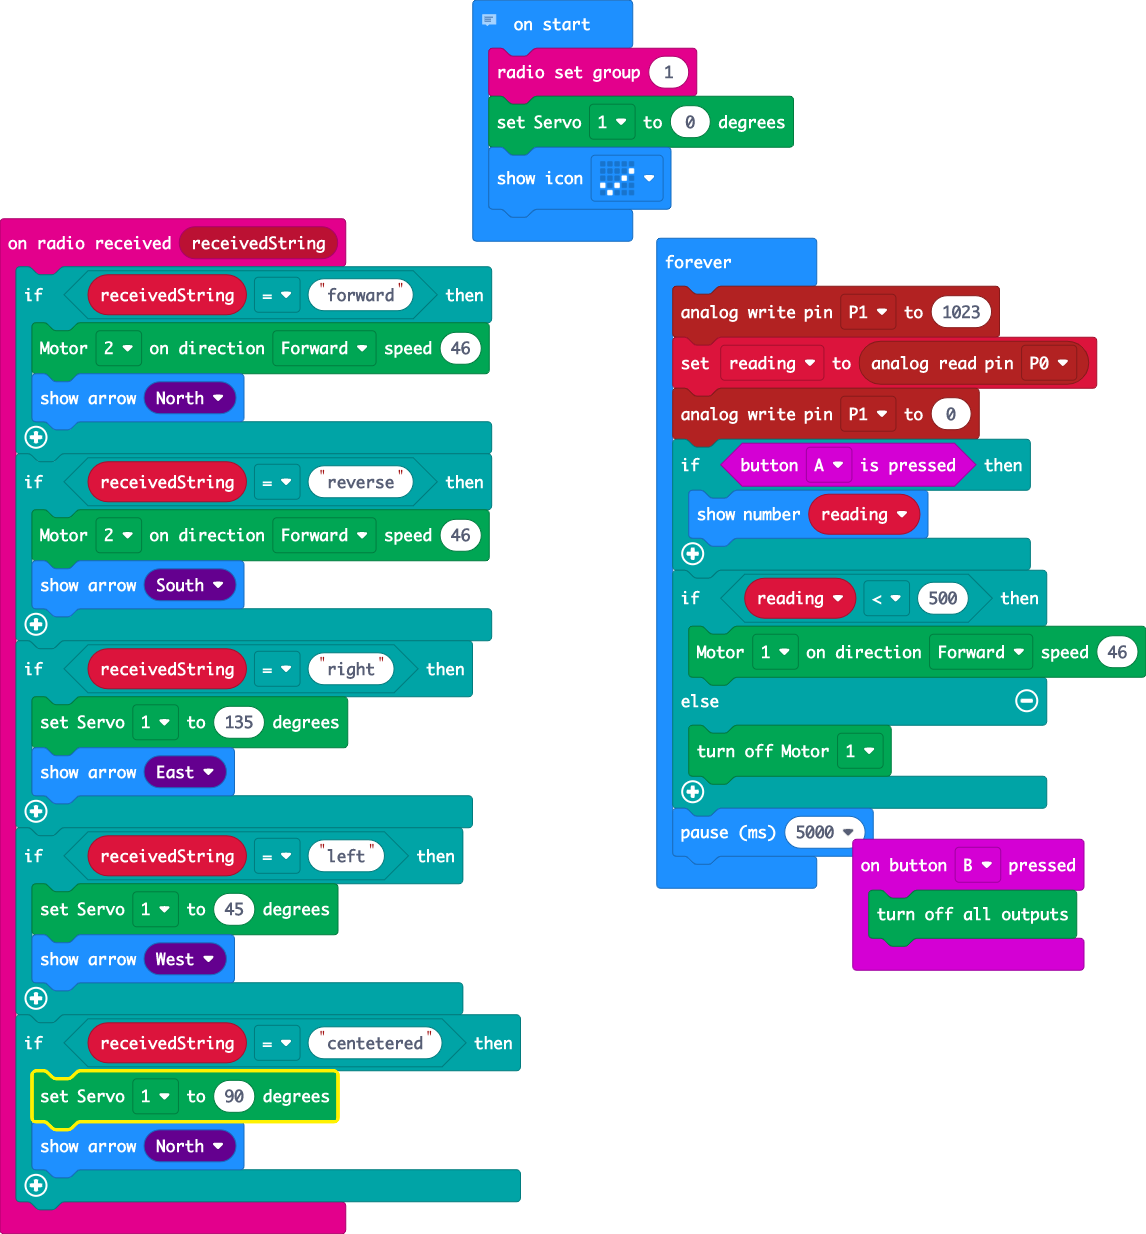
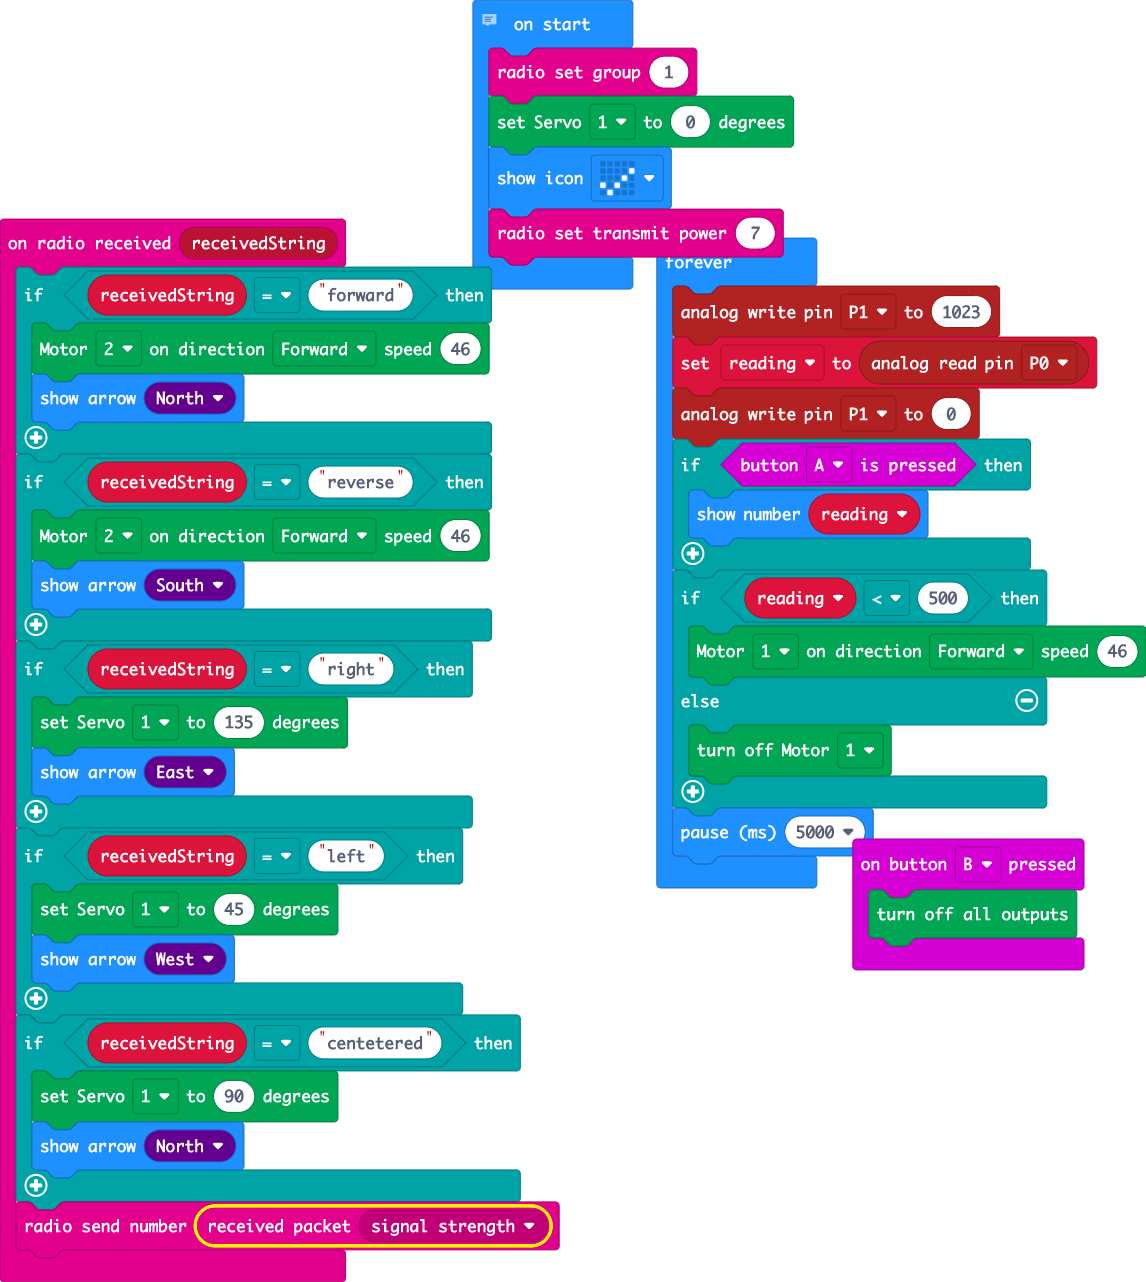
Update pxt.json, main.blocks, main.ts, main.py

diff --git a/main.ts b/main.ts
@@ -1,44 +1,54 @@
-radio.onReceivedString(function (receivedString) {
+radio.onReceivedString(function on_received_string(receivedString: string) {
     if (receivedString == "forward") {
         Kitronik_Robotics_Board.motorOn(Kitronik_Robotics_Board.Motors.Motor2, Kitronik_Robotics_Board.MotorDirection.Forward, 46)
         basic.showArrow(ArrowNames.North)
     }
+    
     if (receivedString == "reverse") {
         Kitronik_Robotics_Board.motorOn(Kitronik_Robotics_Board.Motors.Motor2, Kitronik_Robotics_Board.MotorDirection.Forward, 46)
         basic.showArrow(ArrowNames.South)
     }
+    
     if (receivedString == "right") {
         Kitronik_Robotics_Board.servoWrite(Kitronik_Robotics_Board.Servos.Servo1, 135)
         basic.showArrow(ArrowNames.East)
     }
+    
     if (receivedString == "left") {
         Kitronik_Robotics_Board.servoWrite(Kitronik_Robotics_Board.Servos.Servo1, 45)
         basic.showArrow(ArrowNames.West)
     }
+    
     if (receivedString == "centetered") {
         Kitronik_Robotics_Board.servoWrite(Kitronik_Robotics_Board.Servos.Servo1, 90)
         basic.showArrow(ArrowNames.North)
     }
+    
+    radio.sendNumber(radio.receivedPacket(RadioPacketProperty.SignalStrength))
 })
-input.onButtonPressed(Button.B, function () {
+input.onButtonPressed(Button.B, function on_button_pressed_b() {
     Kitronik_Robotics_Board.allOff()
 })
-// https://makecode.microbit.org/projects/soil-moisture/code
+//  https://makecode.microbit.org/projects/soil-moisture/code
 let reading = 0
 radio.setGroup(1)
 Kitronik_Robotics_Board.servoWrite(Kitronik_Robotics_Board.Servos.Servo1, 0)
 basic.showIcon(IconNames.Yes)
-basic.forever(function () {
+radio.setTransmitPower(7)
+basic.forever(function on_forever() {
+    
     pins.analogWritePin(AnalogPin.P1, 1023)
     reading = pins.analogReadPin(AnalogPin.P0)
     pins.analogWritePin(AnalogPin.P1, 0)
     if (input.buttonIsPressed(Button.A)) {
         basic.showNumber(reading)
     }
+    
     if (reading < 500) {
         Kitronik_Robotics_Board.motorOn(Kitronik_Robotics_Board.Motors.Motor1, Kitronik_Robotics_Board.MotorDirection.Forward, 46)
     } else {
         Kitronik_Robotics_Board.motorOff(Kitronik_Robotics_Board.Motors.Motor1)
     }
+    
     basic.pause(5000)
 })

diff --git a/main.py b/main.py
@@ -1,37 +1,49 @@
-def on_received_number(receivedNumber):
-    if receivedNumber == 1:
-        Kitronik_Robotics_Board.motor_on(Kitronik_Robotics_Board.Motors.MOTOR1,
-            Kitronik_Robotics_Board.MotorDirection.FORWARD,
-            85)
+def on_received_string(receivedString):
+    if receivedString == "forward":
         Kitronik_Robotics_Board.motor_on(Kitronik_Robotics_Board.Motors.MOTOR2,
             Kitronik_Robotics_Board.MotorDirection.FORWARD,
             46)
-        basic.show_leds("""
-            . . # . .
-                        . # # # .
-                        . . # . .
-                        . . # . .
-                        . . # . .
-        """)
-    if receivedNumber == 2:
-        Kitronik_Robotics_Board.motor_on(Kitronik_Robotics_Board.Motors.MOTOR1,
-            Kitronik_Robotics_Board.MotorDirection.REVERSE,
-            85)
+        basic.show_arrow(ArrowNames.NORTH)
+    if receivedString == "reverse":
         Kitronik_Robotics_Board.motor_on(Kitronik_Robotics_Board.Motors.MOTOR2,
-            Kitronik_Robotics_Board.MotorDirection.REVERSE,
+            Kitronik_Robotics_Board.MotorDirection.FORWARD,
             46)
+        basic.show_arrow(ArrowNames.SOUTH)
+    if receivedString == "right":
+        Kitronik_Robotics_Board.servo_write(Kitronik_Robotics_Board.Servos.SERVO1, 135)
+        basic.show_arrow(ArrowNames.EAST)
+    if receivedString == "left":
         Kitronik_Robotics_Board.servo_write(Kitronik_Robotics_Board.Servos.SERVO1, 45)
-        basic.show_icon(IconNames.SWORD)
-radio.on_received_number(on_received_number)
+        basic.show_arrow(ArrowNames.WEST)
+    if receivedString == "centetered":
+        Kitronik_Robotics_Board.servo_write(Kitronik_Robotics_Board.Servos.SERVO1, 90)
+        basic.show_arrow(ArrowNames.NORTH)
+    radio.send_number(radio.received_packet(RadioPacketProperty.SIGNAL_STRENGTH))
+radio.on_received_string(on_received_string)
 
 def on_button_pressed_b():
     Kitronik_Robotics_Board.all_off()
 input.on_button_pressed(Button.B, on_button_pressed_b)
 
+# https://makecode.microbit.org/projects/soil-moisture/code
+reading = 0
 radio.set_group(1)
 Kitronik_Robotics_Board.servo_write(Kitronik_Robotics_Board.Servos.SERVO1, 0)
 basic.show_icon(IconNames.YES)
+radio.set_transmit_power(7)
 
 def on_forever():
-    pass
+    global reading
+    pins.analog_write_pin(AnalogPin.P1, 1023)
+    reading = pins.analog_read_pin(AnalogPin.P0)
+    pins.analog_write_pin(AnalogPin.P1, 0)
+    if input.button_is_pressed(Button.A):
+        basic.show_number(reading)
+    if reading < 500:
+        Kitronik_Robotics_Board.motor_on(Kitronik_Robotics_Board.Motors.MOTOR1,
+            Kitronik_Robotics_Board.MotorDirection.FORWARD,
+            46)
+    else:
+        Kitronik_Robotics_Board.motor_off(Kitronik_Robotics_Board.Motors.MOTOR1)
+    basic.pause(5000)
 basic.forever(on_forever)
